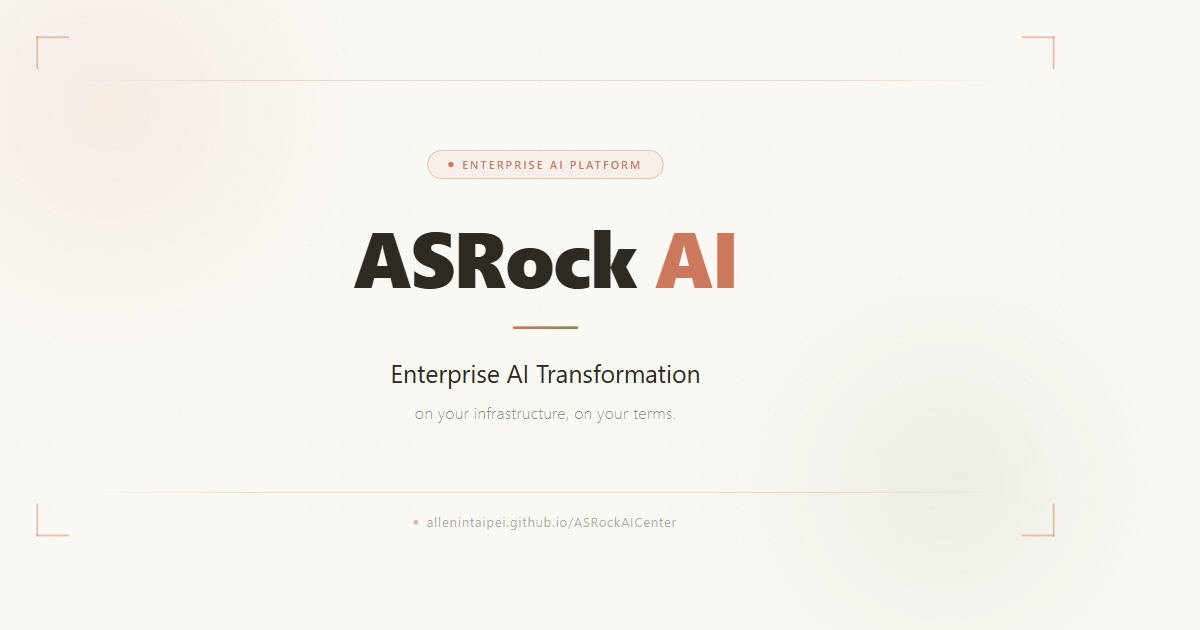
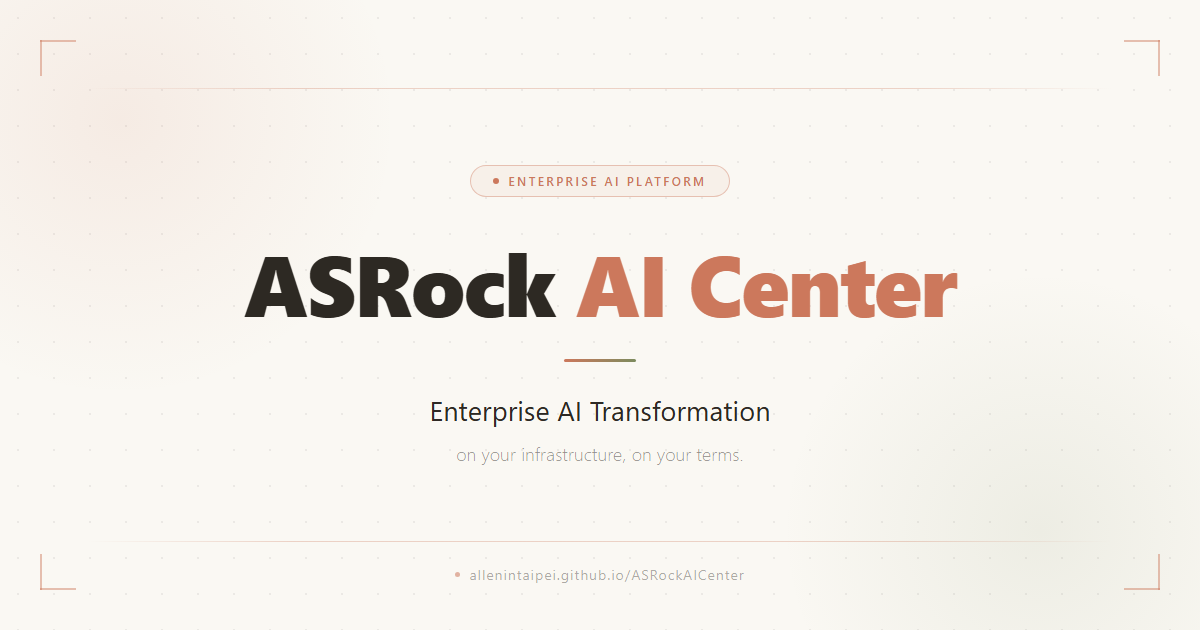
rename(brand): rename ASRock AI to ASRock AI Center, add official site nav link

diff --git a/locales.js b/locales.js
@@ -1,7 +1,7 @@
 const LOCALES = {
   en: {
     header: {
-      title: "ASRock AI",
+      title:  "ASRock AI Center",
       subtitle: "Enterprise AI Transformation \u2014 on your infrastructure, on your terms.",
       taglines: [
         "In the era of AI, compute is strategy. Own yours \u2014 on-premise or hybrid.",
@@ -15,12 +15,14 @@ const LOCALES = {
       products: "Products",
       solutions: "Solutions",
       resources: "Resources",
-      contact: "Contact"
+      contact: "Contact",
+      official: "Official Site",
+      officialUrl: "https://www.asrock.com/microsite/AICenter/index.html"
     },
     whySection: {
       title: "Enterprise AI, built on infrastructure you own",
       subtitle: "A single team taking AI from strategy to production — without your data ever leaving your perimeter.",
-      description: "ASRock AI pairs a structured service model with a growing suite of production-ready AI applications, all designed to run entirely on-premise or in a hybrid environment. From the first requirements interview to ongoing optimization, every step keeps compute and data under your control.",
+      description: "We pair a structured service model with a growing suite of production-ready AI applications, all designed to run entirely on-premise or in a hybrid environment. From the first requirements interview to ongoing optimization, every step keeps compute and data under your control.",
       stats: [
         { label: "AI Applications" },
         { label: "Pilot Projects" },
@@ -306,7 +308,7 @@ const LOCALES = {
       linkedinUrl: "https://www.linkedin.com/in/allen-sun-67738b38a",
       linkedinText: "Contact Allen on LinkedIn",
       people: [
-        { name: "Allen Sun", title: "ASRock AI Center Head", email: "allen1_sun@asrock.com.tw" },
+        { name: "Allen Sun", title: "Head of ASRock AI Center", email: "allen1_sun@asrock.com.tw" },
         { name: "Ricardo Hsu", title: "Business Development", email: "Ricardo_Hsu@asrock.com.tw" },
         { name: "Steven Chen", title: "Technical Marketing Manager", email: "Steven2_Chen@asrock.com.tw" }
       ]
@@ -317,7 +319,7 @@ const LOCALES = {
   },
   'zh-TW': {
     header: {
-      title: "ASRock AI",
+      title: "ASRock AI Center",
       subtitle: "企業 AI 轉型——算力在你手中，主導權也是。",
       taglines: [
         "在 AI 時代，算力就是戰略。本地、雲端，或兩者兼備——都在你的掌控中。",
@@ -331,12 +333,14 @@ const LOCALES = {
       products: "產品",
       solutions: "案例",
       resources: "資源",
-      contact: "聯絡我們"
+      contact: "聯絡我們",
+      official: "官方頁面",
+      officialUrl: "https://www.asrock.com/microsite/AICenter/index.tw.html"
     },
     whySection: {
       title: "企業 AI，運行在你自己的基礎設施上",
       subtitle: "從策略到落地，由同一個團隊全程陪伴，資料從未離開你的環境。",
-      description: "ASRock AI 結合結構化的服務流程與持續擴充的正式 AI 應用套件，全部設計為在地端或混合雲環境完整運行。從第一次需求訪談到後續優化，每個階段都讓算力與資料掌控權留在你手中。",
+      description: "結合結構化的服務流程與持續擴充的正式 AI 應用套件，全部設計為在地端或混合雲環境完整運行。從第一次需求訪談到後續優化，每個階段都讓算力與資料掌控權留在你手中。",
       stats: [
         { label: "AI 應用工具" },
         { label: "領航專案" },

diff --git a/index.html b/index.html
@@ -9,22 +9,22 @@
   <meta name="youtube-api-key" content="YOUR_API_KEY_HERE" />
   <!-- Favicon -->
   <link rel="icon" type="image/svg+xml" href="public/favicon.svg" />
-  <title>ASRock AI</title>
+  <title>ASRock AI Center</title>
   <meta name="description"
-    content="ASRock AI 讓企業 AI 完全在地端基礎設施運行——資料不離開您的環境，主導權完全掌握在您手中。這不是 SaaS，而是您的 AI 工廠。" />
-  <meta name="author" content="ASRock AI" />
+    content="讓企業 AI 完全在地端基礎設施運行——資料不離開您的環境，主導權完全掌握在您手中。這不是 SaaS，而是您的 AI 工廠。" />
+  <meta name="author" content="ASRock AI Center" />
   <meta name="robots" content="index, follow, max-snippet:-1, max-image-preview:large, max-video-preview:-1" />
   <link rel="canonical" href="https://allenintaipei.github.io/ASRockAICenter/" />
   <!-- Open Graph -->
   <meta property="og:type" content="website" />
   <meta property="og:url" content="https://allenintaipei.github.io/ASRockAICenter/" />
-  <meta property="og:title" content="ASRock AI" />
-  <meta property="og:description" content="ASRock AI 讓企業 AI 完全在地端基礎設施運行——資料不離開您的環境，主導權完全掌握在您手中。這不是 SaaS，而是您的 AI 工廠。" />
+  <meta property="og:title" content="ASRock AI Center" />
+  <meta property="og:description" content="讓企業 AI 完全在地端基礎設施運行——資料不離開您的環境，主導權完全掌握在您手中。這不是 SaaS，而是您的 AI 工廠。" />
   <meta property="og:image" content="https://allenintaipei.github.io/ASRockAICenter/og-image.png" />
   <!-- Twitter Card -->
   <meta name="twitter:card" content="summary_large_image" />
-  <meta name="twitter:title" content="ASRock AI" />
-  <meta name="twitter:description" content="ASRock AI 讓企業 AI 完全在地端基礎設施運行——資料不離開您的環境，主導權完全掌握在您手中。這不是 SaaS，而是您的 AI 工廠。" />
+  <meta name="twitter:title" content="ASRock AI Center" />
+  <meta name="twitter:description" content="讓企業 AI 完全在地端基礎設施運行——資料不離開您的環境，主導權完全掌握在您手中。這不是 SaaS，而是您的 AI 工廠。" />
   <meta name="twitter:image" content="https://allenintaipei.github.io/ASRockAICenter/og-image.png" />
   <link rel="stylesheet" href="style.css" />
 </head>
@@ -35,11 +35,12 @@
     <!-- Sticky Nav -->
     <header class="site-header" id="site-header">
       <div class="nav-inner">
-        <a href="#hero" class="nav-brand">ASRock AI</a>
+        <a href="#hero" class="nav-brand">ASRock AI Center</a>
         <ul class="nav-links" id="nav-links">
           <!-- populated by main.js -->
         </ul>
         <div class="nav-actions">
+          <a class="official-btn" id="official-link" href="#" target="_blank" rel="noreferrer"></a>
           <button class="lang-btn" id="lang-toggle-btn">
             <span>EN</span>
           </button>
@@ -51,7 +52,7 @@
 
       <!-- Hero -->
       <header id="hero">
-        <h1 data-i18n="header.title">ASRock AI</h1>
+        <h1 data-i18n="header.title">ASRock AI Center</h1>
         <h2 class="gradient-text" data-i18n="header.subtitle"></h2>
         <p class="tagline" data-i18n="header.taglines.0"></p>
         <p class="tagline" data-i18n="header.taglines.1"></p>

diff --git a/style.css b/style.css
@@ -213,6 +213,27 @@ body {
     transform: translateY(-1px);
 }
 
+.official-btn {
+    display: inline-flex;
+    align-items: center;
+    background: transparent;
+    border: 1.5px solid var(--border);
+    color: var(--ink-dim);
+    padding: 8px 18px;
+    font-size: 13px;
+    font-weight: 600;
+    border-radius: var(--radius-full);
+    text-decoration: none;
+    white-space: nowrap;
+    transition: all var(--dur-fast) var(--ease-out);
+}
+
+.official-btn:hover {
+    color: var(--ink);
+    border-color: var(--ink-dim);
+    transform: translateY(-1px);
+}
+
 /* ── Eyebrow badges ────────────────────────────────────────────────────── */
 .eyebrow {
     display: inline-flex;

diff --git a/public/docs/zh-TW/MasterAi-zh.html b/public/docs/zh-TW/MasterAi-zh.html
@@ -129,7 +129,7 @@
   <div class="tagline">您的專屬在地 AI 工作站<br>
     <span style="color:#E8AE8C; font-size:0.9rem;">CUDA 與 ROCm 二刀流：為企業量身打造的私有算力堡壘</span>
   </div>
-  <div class="org">華擎科技 AI 研發中心</div>
+  <div class="org">華擎科技 AI Center</div>
 </header>
 
 <main>
@@ -276,7 +276,7 @@
 </main>
 
 <footer>
-  Master Ai &nbsp;·&nbsp; 華擎科技 AI 研發中心 &nbsp;·&nbsp; 您的專屬在地 AI 工作站
+  Master Ai &nbsp;·&nbsp; 華擎科技 AI Center &nbsp;·&nbsp; 您的專屬在地 AI 工作站
 </footer>
 
 </body>

diff --git a/main.js b/main.js
@@ -204,6 +204,13 @@ function applyLocale(lang) {
   const btn = document.getElementById('lang-toggle-btn');
   if (btn) btn.querySelector('span').textContent = lang === 'zh-TW' ? 'EN' : '中文';
 
+  // Official microsite link (language-aware)
+  const officialLink = document.getElementById('official-link');
+  if (officialLink && t.nav) {
+    officialLink.textContent = t.nav.official || 'Official Site';
+    officialLink.href = t.nav.officialUrl || '#';
+  }
+
   // Re-attach scroll reveal / count-up to newly rendered cards
   attachScrollReveal();
   attachCountUp();

diff --git a/public/og-image.html b/public/og-image.html
@@ -3,7 +3,7 @@
 <head>
   <meta charset="UTF-8" />
   <meta name="viewport" content="width=1200" />
-  <title>ASRock AI — OG Image</title>
+  <title>ASRock AI Center — OG Image</title>
   <style>
     *, *::before, *::after { box-sizing: border-box; margin: 0; padding: 0; }
 
@@ -224,7 +224,7 @@
 
     <div class="logo">
       <span class="logo-asrock">ASRock&nbsp;</span>
-      <span class="logo-ai">AI</span>
+      <span class="logo-ai">AI Center</span>
     </div>
 
     <div class="divider"></div>
